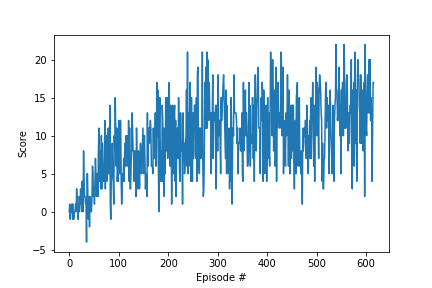
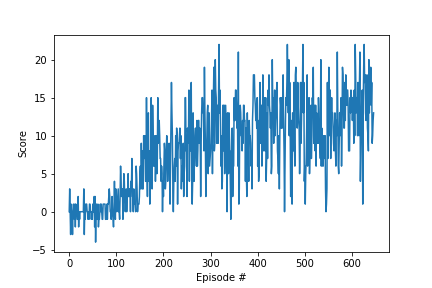
Project (#2)
* First version of README.md

* First version of REPORT.md

* First version of model.py and dqn_agent.py

* Transform to a package.

* Typo in device

* Typo in tensor

* Add trained model

* Update REPORT.md

* Update README.md

* Add train.ipynb

* Typo in REPORT.md

* Add test.ipynb

* Add YT video to REPORT.md

* Update train.ipynb

* Update train.ipynb

diff --git a/REPORT.md b/REPORT.md
@@ -34,7 +34,7 @@ The training consists of a deep q-learning with some improved features:
 
 ## Training performance
 
-The trained algorithm achieved the target performance in 616 episodes:
+The trained algorithm achieved the target performance in 647 episodes:
 
 ![Score evolution per episode](score_evolution.png)
 
